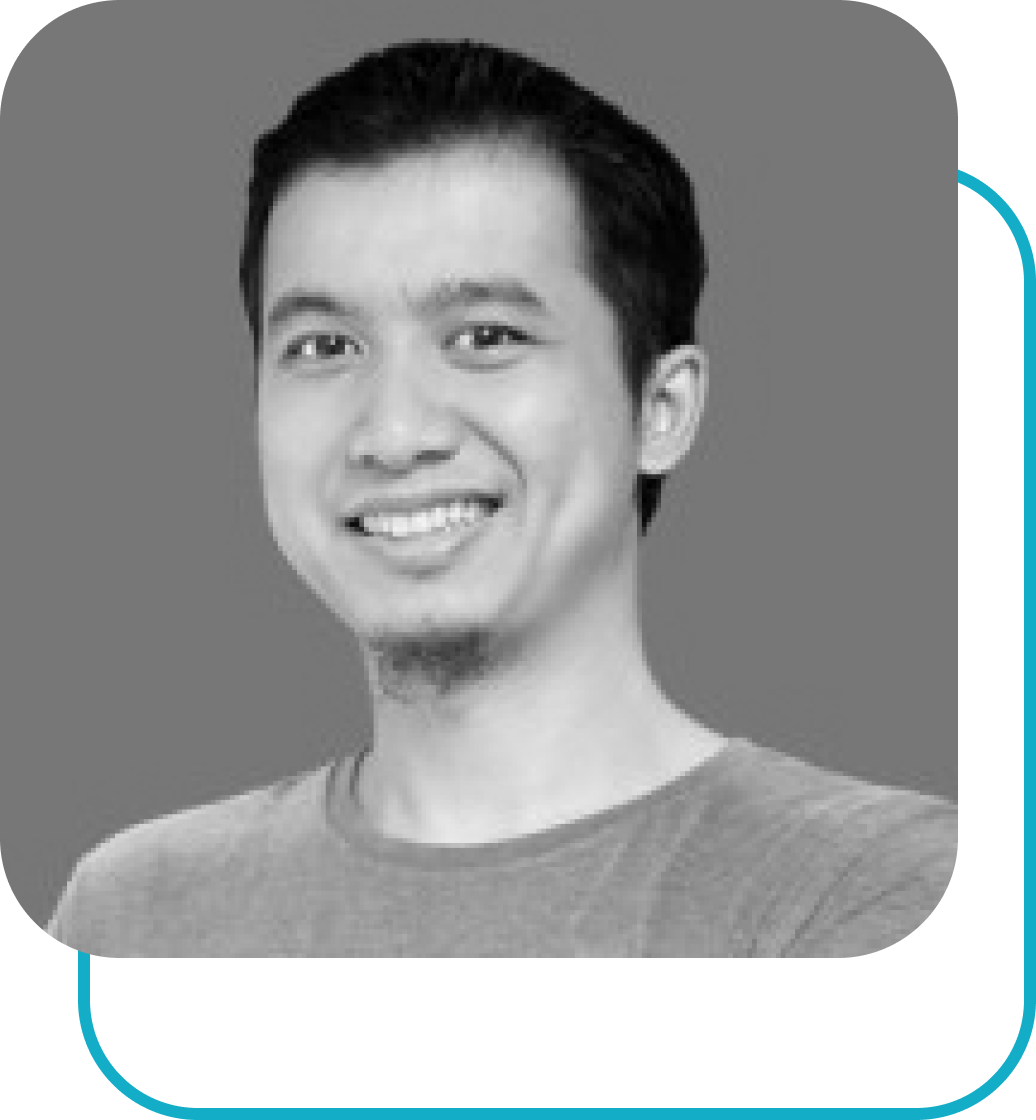
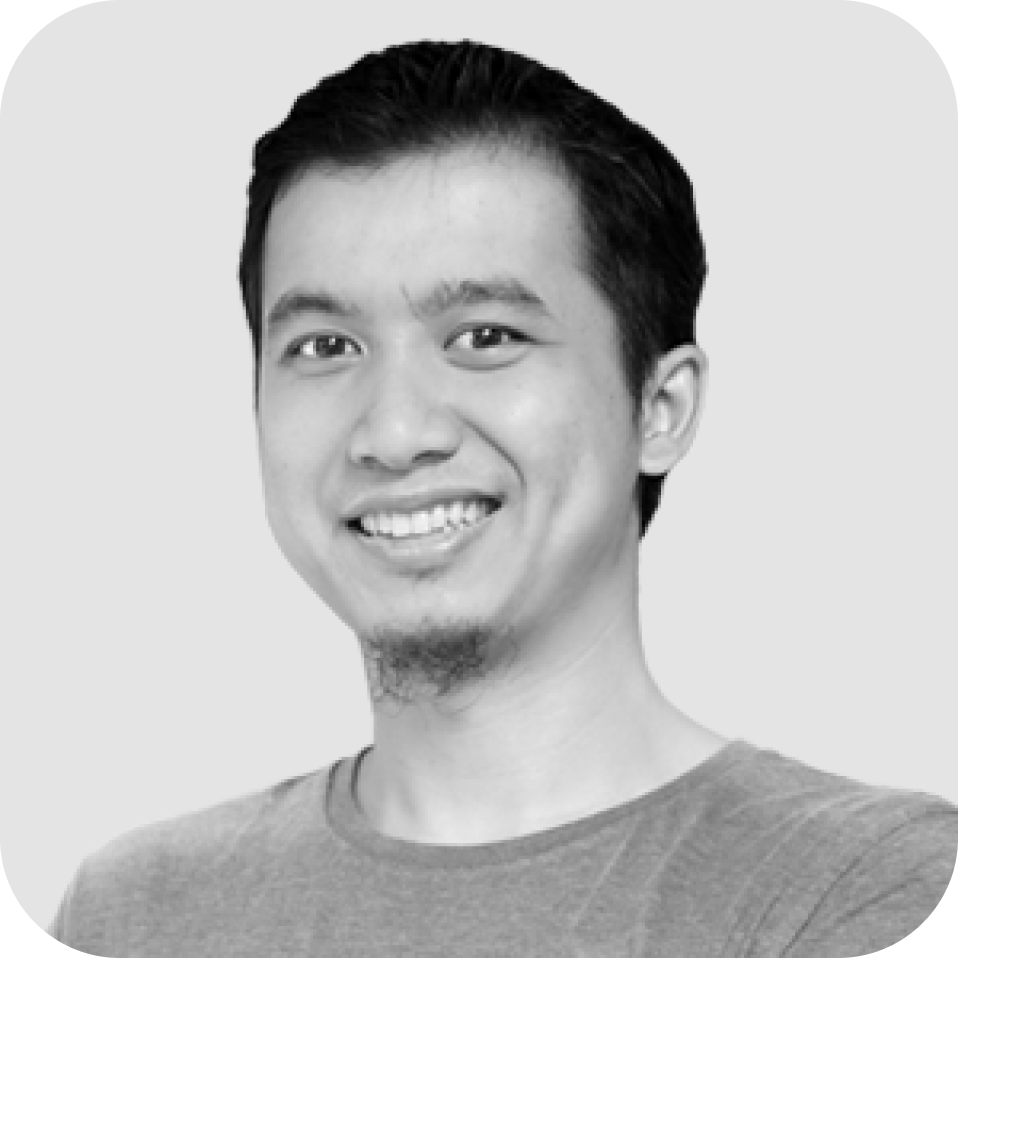
Change profile picture

diff --git a/src/components/TimeLine/TimeLine.js b/src/components/TimeLine/TimeLine.js
@@ -75,9 +75,9 @@ const Timeline = () => {
 			<FlexContainer>
 				<SectionRight>
 					<Image
-						src='/images/profpicaltred.png'
-						height={300}
-						width={280}
+						src='/images/profpicaltbw.png'
+						height={370}
+						width={345}
 						quality={100}
 					/>
 				</SectionRight>
